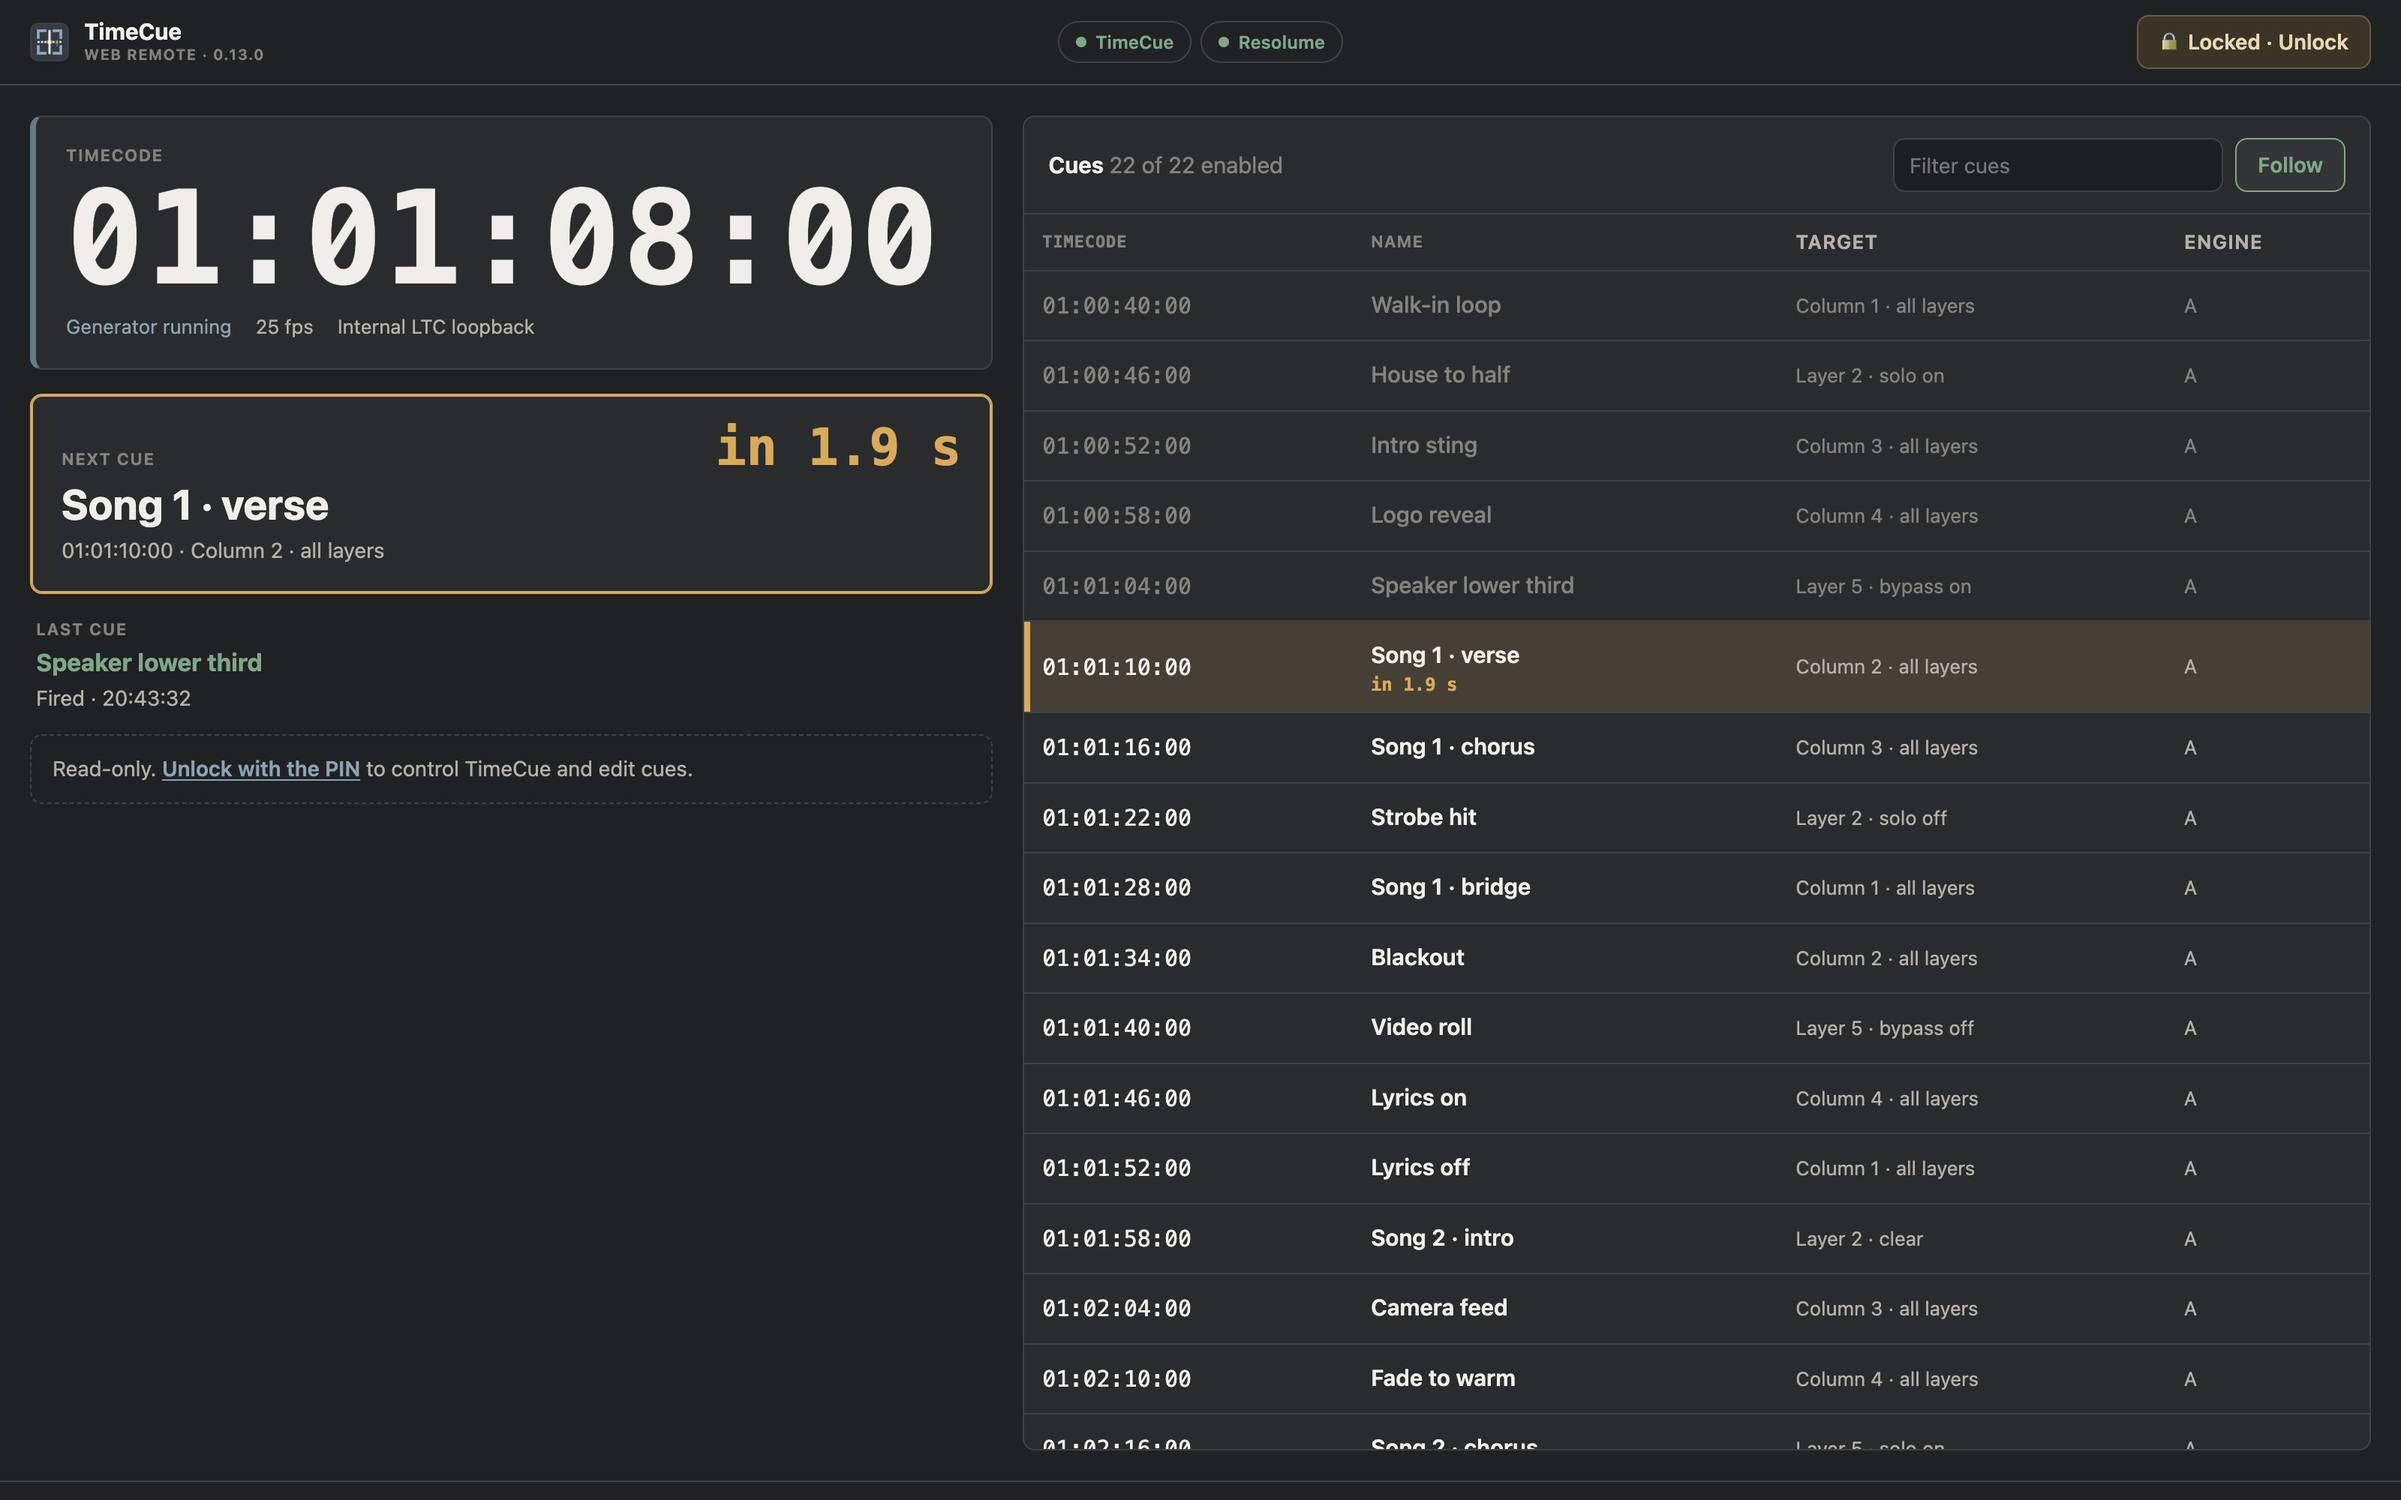
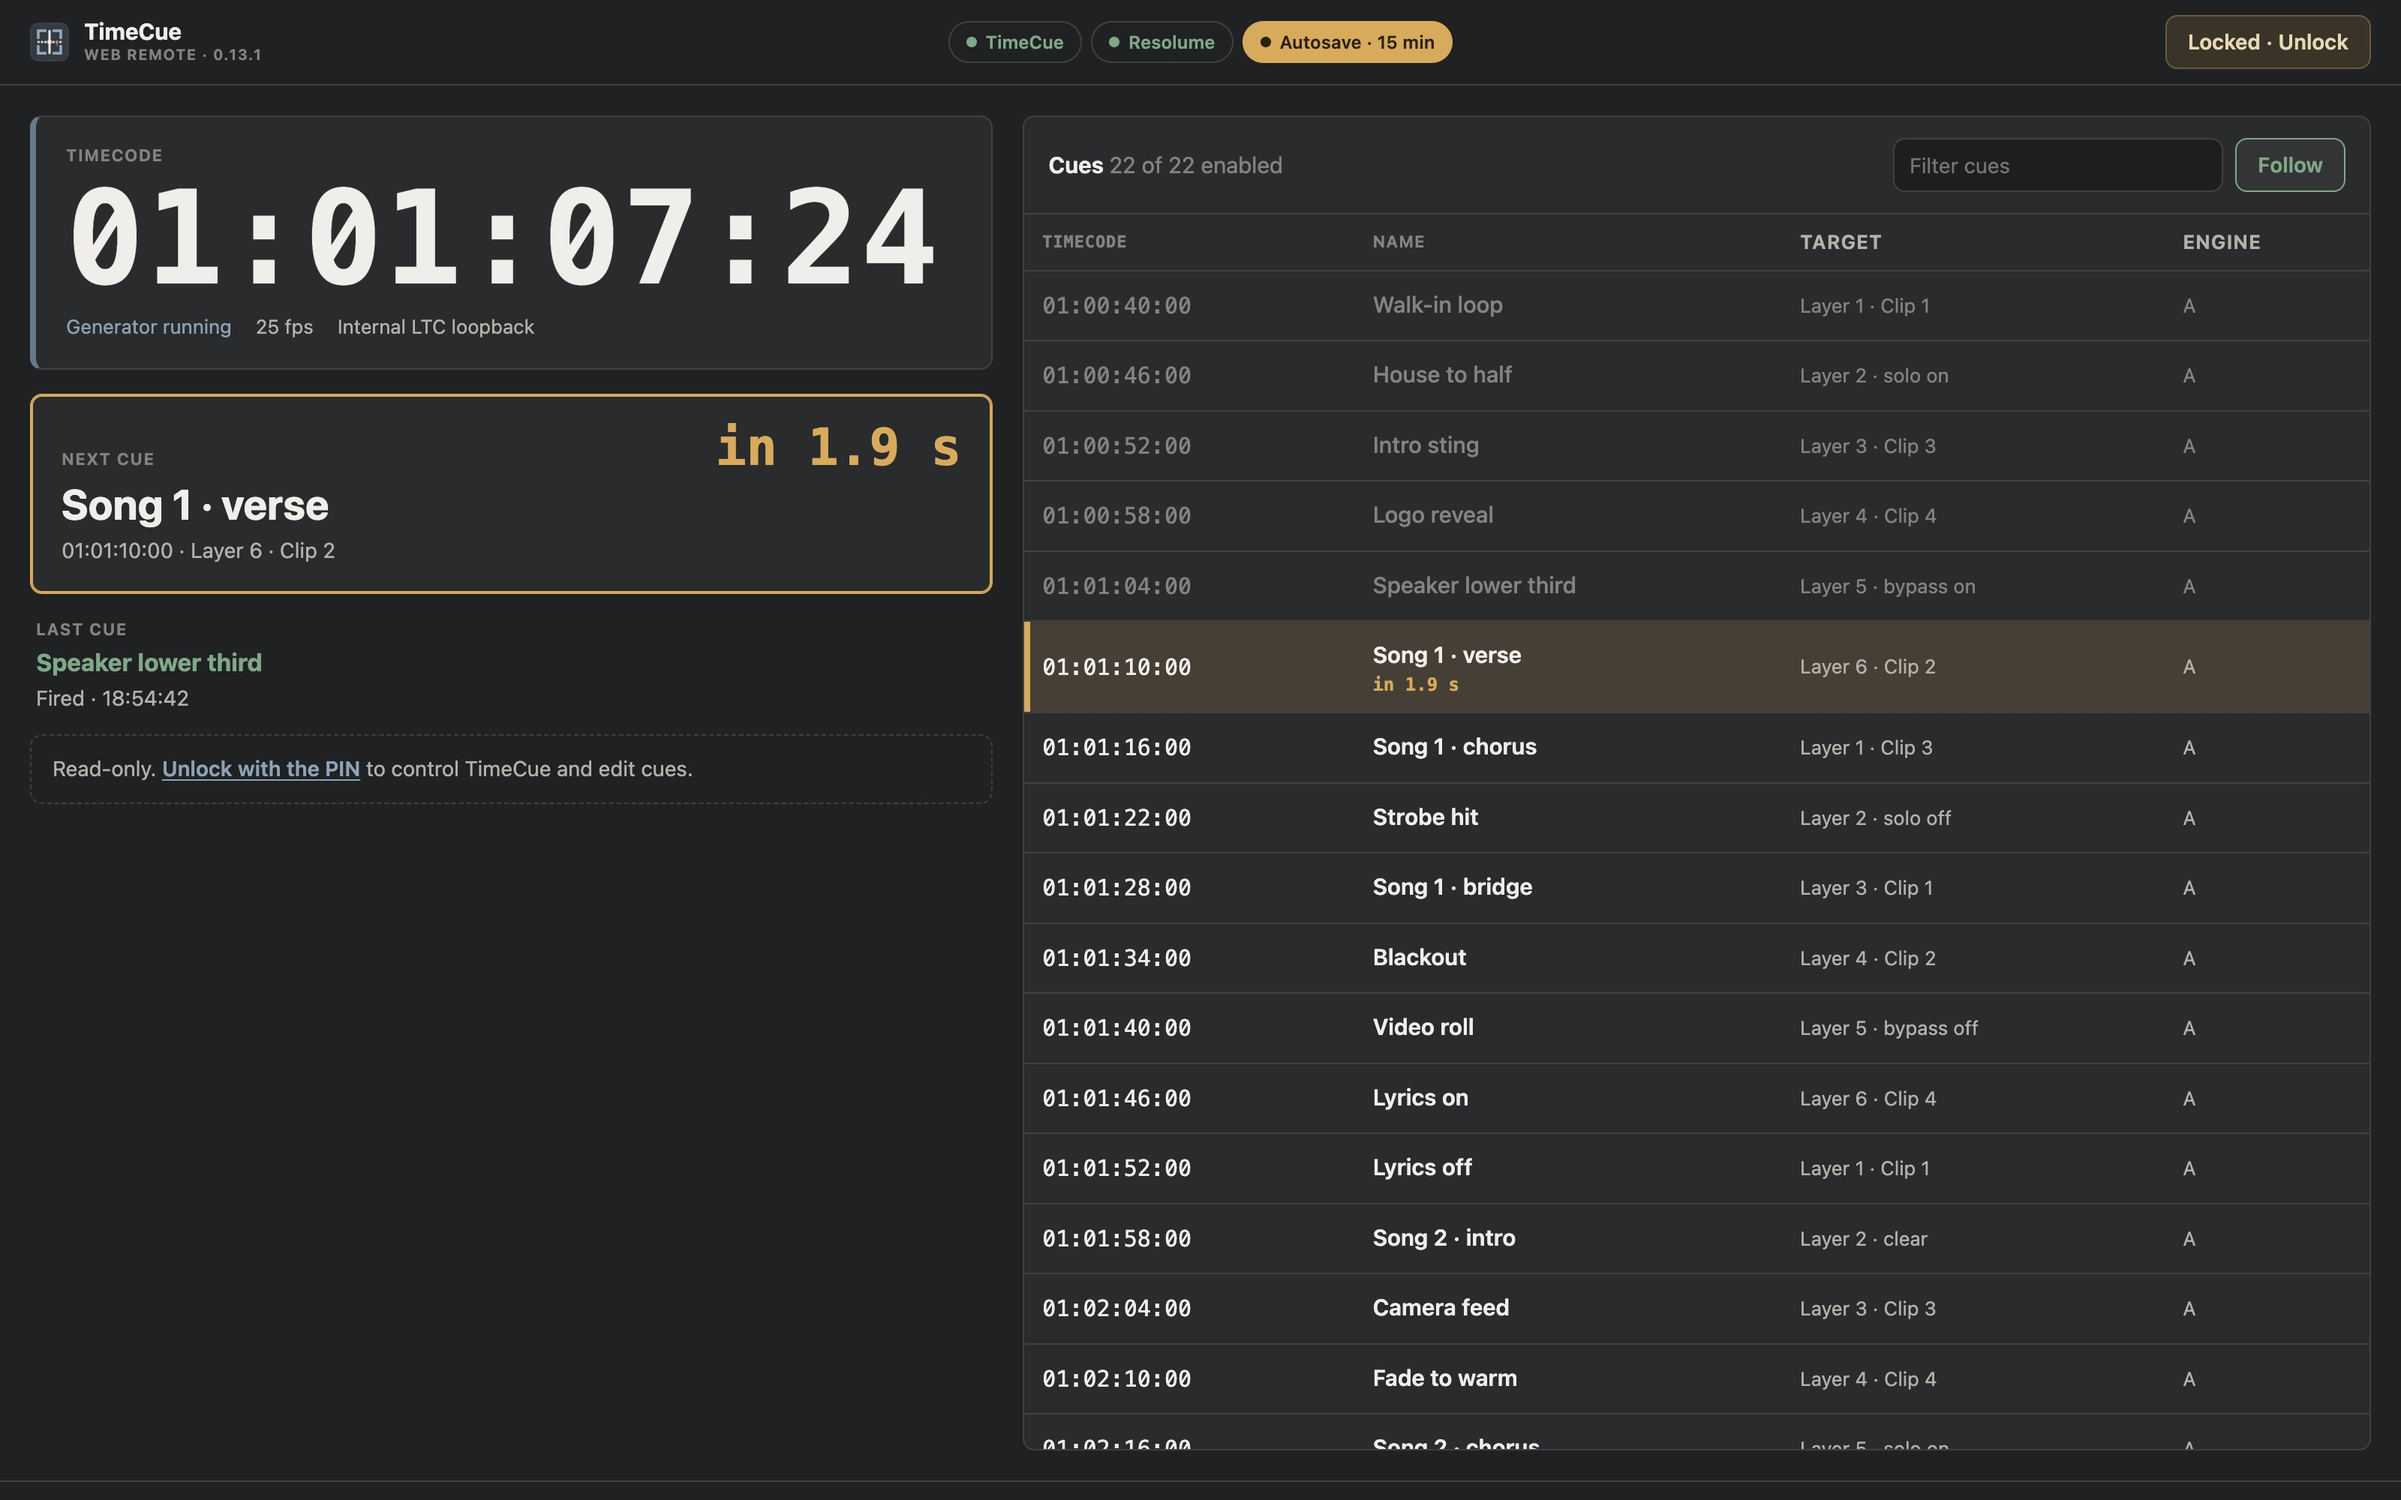
README: TimeCue 0.13.1 (autosave badge in read-only web remote)

diff --git a/README.md b/README.md
@@ -10,11 +10,11 @@
 </p>
 
 <p align="center">
-  <a href="https://github.com/4H1Mzs/TimeCue-Releases/releases/latest"><img alt="Download" src="https://img.shields.io/badge/download-TimeCue%200.13.0-5c8cff?style=for-the-badge"></a>
+  <a href="https://github.com/4H1Mzs/TimeCue-Releases/releases/latest"><img alt="Download" src="https://img.shields.io/badge/download-TimeCue%200.13.1-5c8cff?style=for-the-badge"></a>
 </p>
 
 <p align="center">
-  <img alt="Version 0.13.0" src="https://img.shields.io/badge/version-0.13.0-5c8cff">
+  <img alt="Version 0.13.1" src="https://img.shields.io/badge/version-0.13.1-5c8cff">
   <img alt="Windows macOS Linux" src="https://img.shields.io/badge/platform-Windows%20%7C%20macOS%20%7C%20Linux-30343b">
   <img alt="Resolume Arena 7.23–7.28" src="https://img.shields.io/badge/Resolume%20Arena-7.23%E2%80%937.28-d0473b">
   <img alt="Status Preview" src="https://img.shields.io/badge/status-preview-e7a84b">
